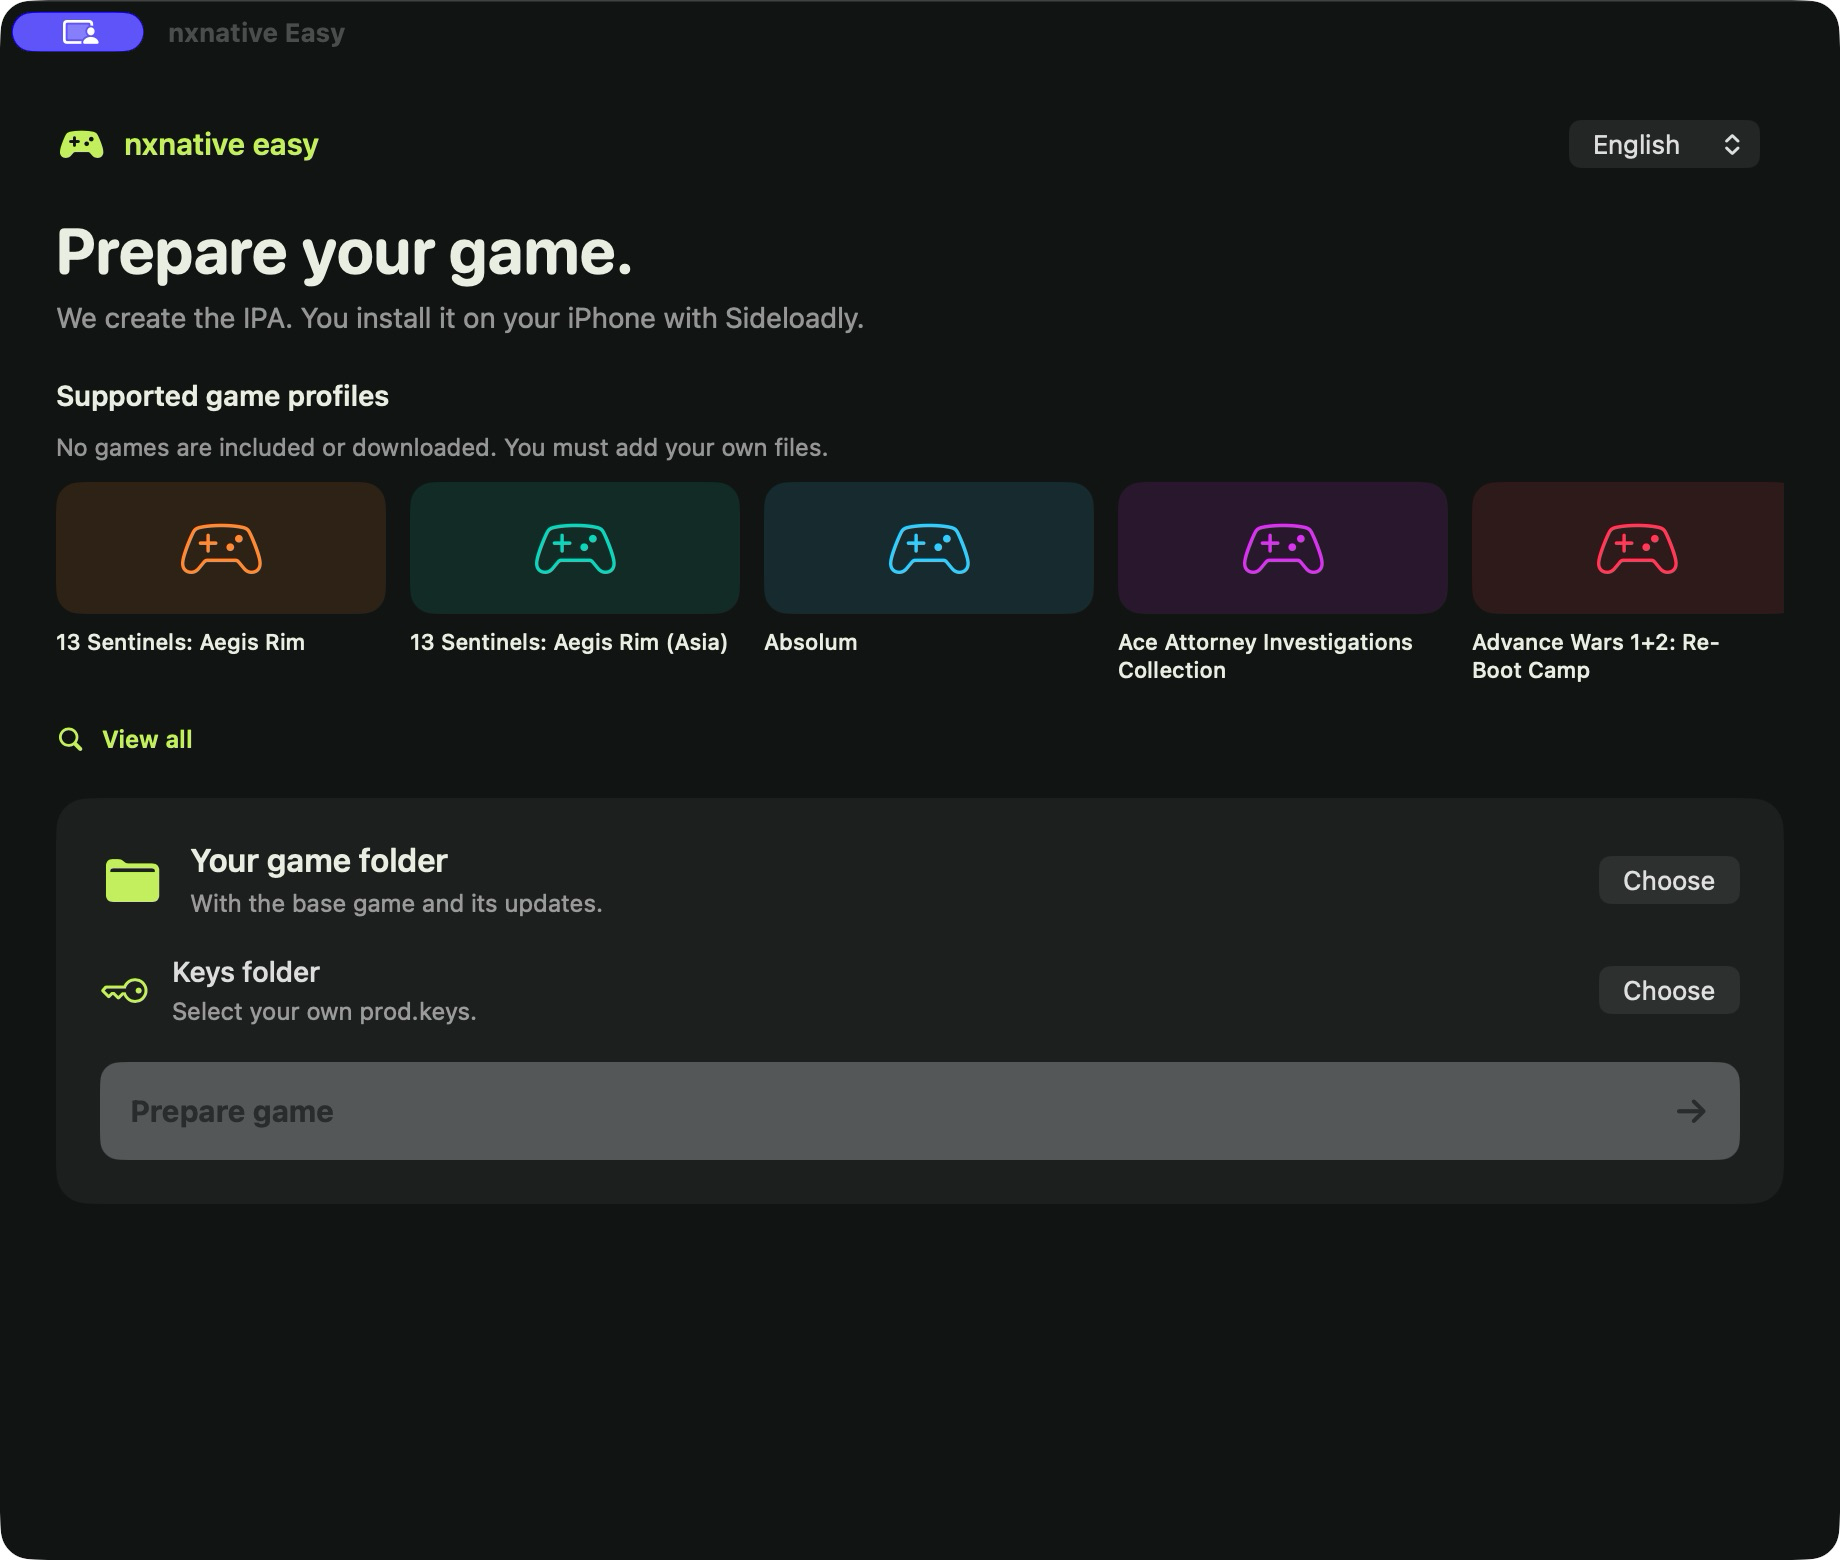
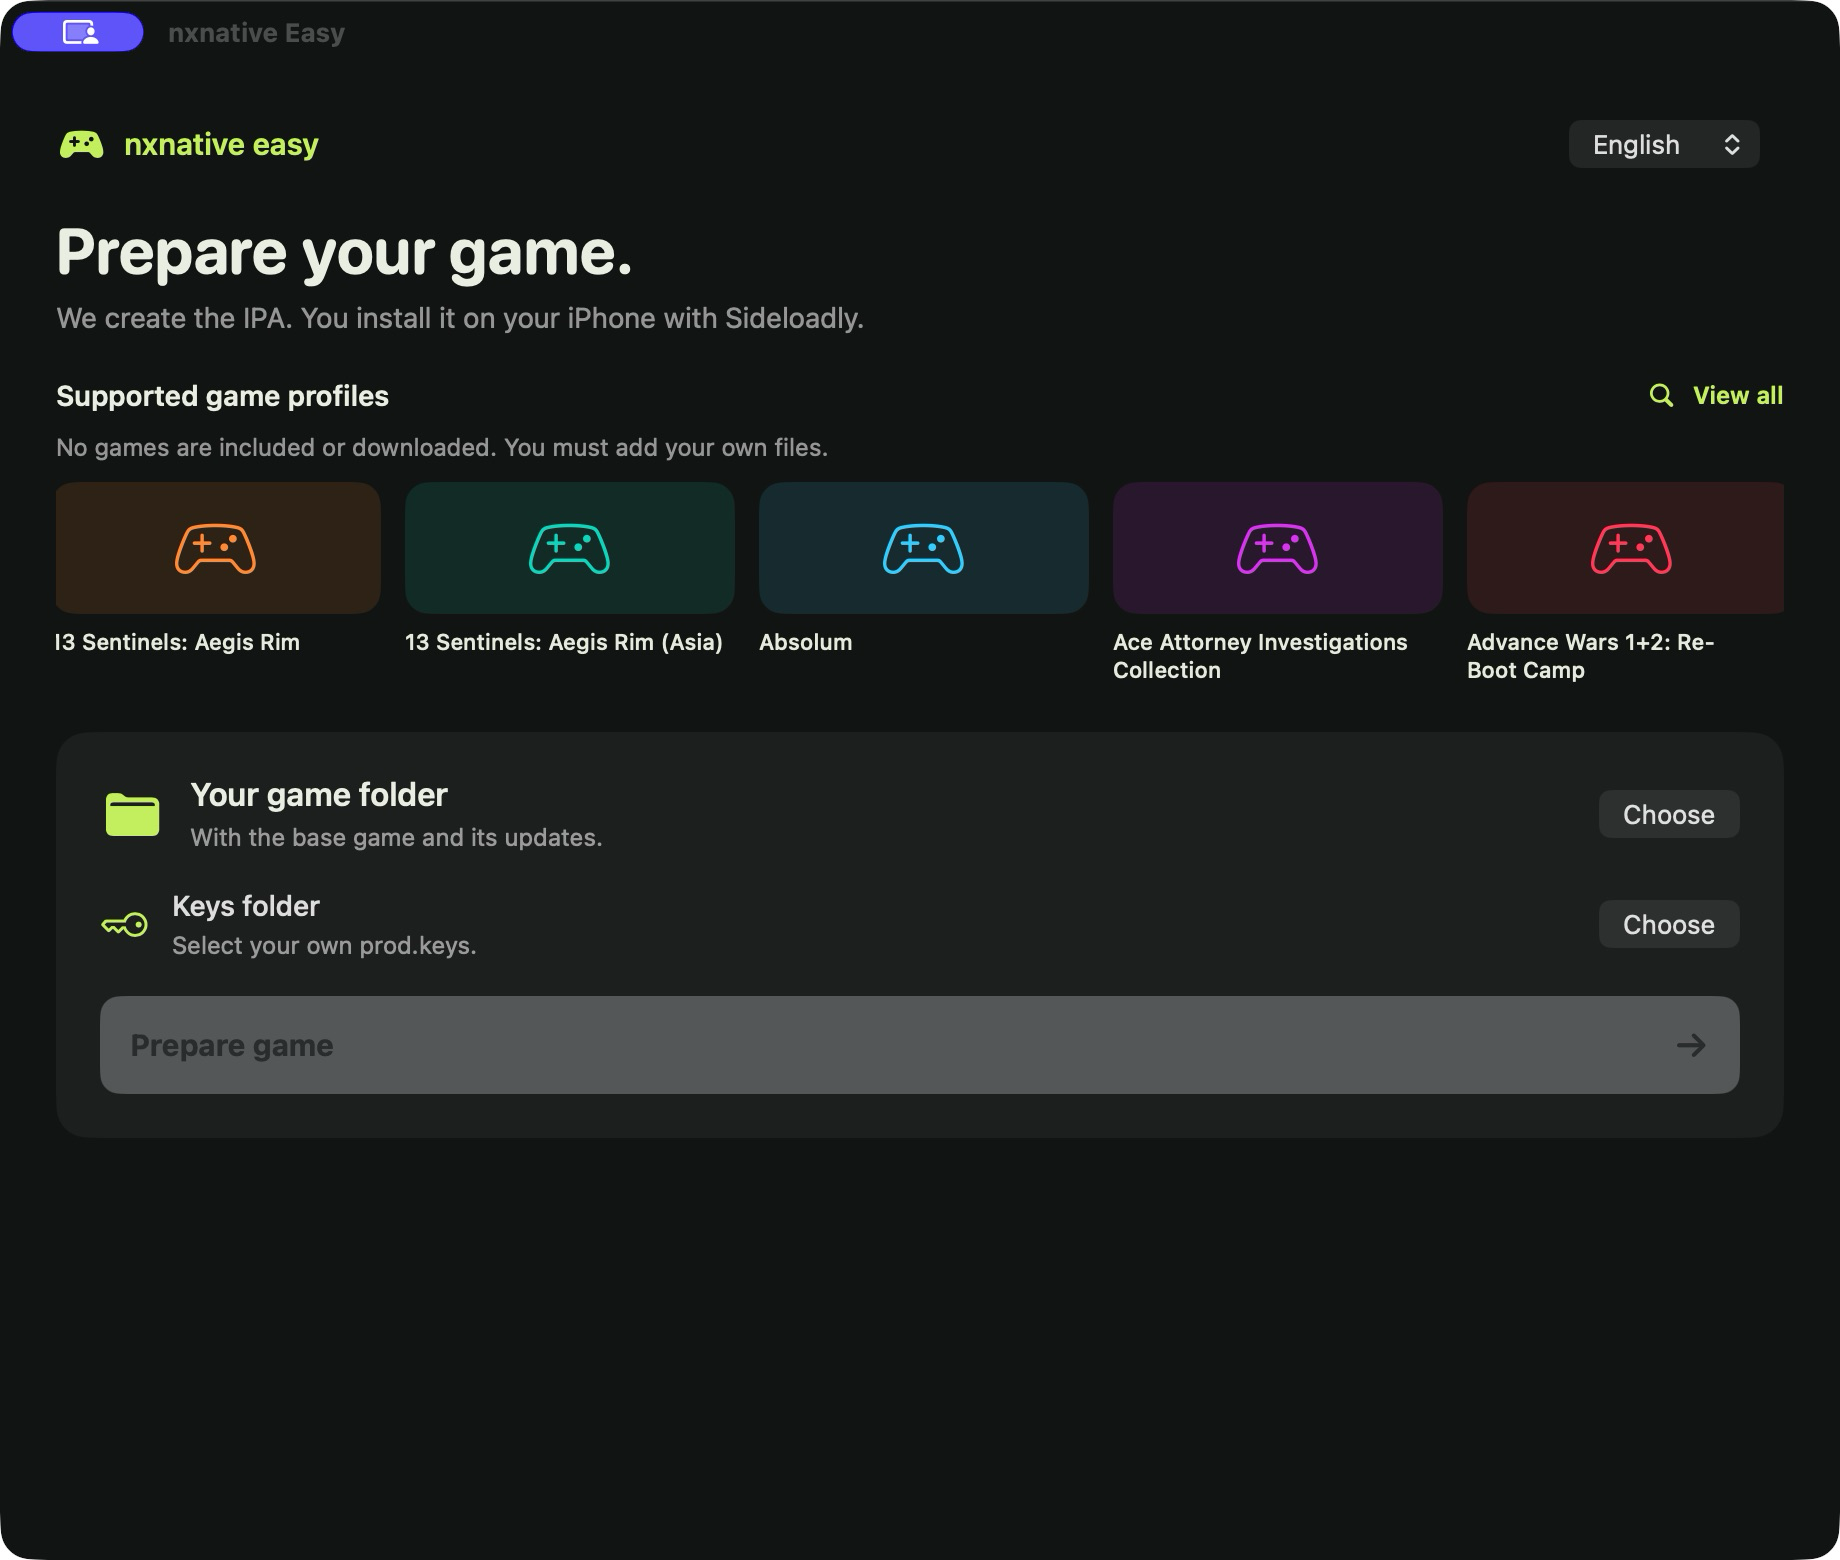
Rotate support carousel continuously and move View all to its header

diff --git a/desktop/NxNativeEasy/main.swift b/desktop/NxNativeEasy/main.swift
@@ -170,6 +170,46 @@ import Darwin
     }
 }
 
+struct SupportCarousel: View {
+    let games: [CatalogGame]
+    @Environment(\.accessibilityReduceMotion) private var reduceMotion
+    @State private var started = Date()
+    @State private var pausedAt: Date?
+
+    var body: some View {
+        GeometryReader { geometry in
+            TimelineView(.animation(minimumInterval:1.0 / 30.0,paused:pausedAt != nil || reduceMotion)) { context in
+                let width = CGFloat(games.count) * 177
+                let elapsed = max(0,(pausedAt ?? context.date).timeIntervalSince(started))
+                let offset = width > 0 && !reduceMotion ? CGFloat(elapsed * 22).truncatingRemainder(dividingBy:width) : 0
+                HStack(spacing:12) {
+                    ForEach(0..<2,id:\.self) { copy in
+                        ForEach(Array(games.enumerated()),id:\.element.id) { index, game in
+                            let tint: Color = [.orange,.mint,.cyan,.purple,.pink][index % 5]
+                            VStack(alignment:.leading,spacing:7) {
+                                ZStack {
+                                    RoundedRectangle(cornerRadius:12).fill(tint.opacity(0.12))
+                                    Image(systemName:"gamecontroller").font(.system(size:29,weight:.light)).foregroundStyle(tint)
+                                }.frame(height:66)
+                                Text(game.name).font(.system(size:11,weight:.medium))
+                                    .foregroundStyle(Color(red:0.91,green:0.93,blue:0.88))
+                                    .lineLimit(2).frame(height:30,alignment:.topLeading)
+                            }.frame(width:165).accessibilityHidden(copy == 1)
+                        }
+                    }
+                }.offset(x:-offset).frame(width:geometry.size.width,alignment:.leading)
+            }
+        }.frame(height:103).clipped()
+        .onHover { hovering in
+            if hovering { pausedAt = Date() }
+            else if let pause = pausedAt {
+                started = started.addingTimeInterval(Date().timeIntervalSince(pause))
+                pausedAt = nil
+            }
+        }
+    }
+}
+
 struct ContentView: View {
     @StateObject private var model=BuildModel()
     private let ink=Color(red:0.93,green:0.94,blue:0.90)
@@ -194,29 +234,18 @@ struct ContentView: View {
                             .font(.system(size:14)).foregroundStyle(.secondary)
                     }
                     VStack(alignment:.leading,spacing:10) {
-                        Text(model.text("Juegos con soporte en la herramienta"))
-                            .font(.system(size:14,weight:.semibold)).foregroundStyle(ink)
+                        HStack {
+                            Text(model.text("Juegos con soporte en la herramienta"))
+                                .font(.system(size:14,weight:.semibold)).foregroundStyle(ink)
+                            Spacer()
+                            Button {model.openCatalog()} label: {
+                                Label(model.text("Ver todos"),systemImage:"magnifyingglass")
+                                    .font(.system(size:12,weight:.semibold))
+                            }.buttonStyle(.plain).foregroundStyle(lime).accessibilityIdentifier("view-all-games")
+                        }
                         Text(model.text("No incluye ni descarga juegos. Debes añadir tus propios archivos."))
                             .font(.system(size:12)).foregroundStyle(.secondary)
-                        ScrollView(.horizontal,showsIndicators:true) {
-                            LazyHStack(spacing:12) {
-                                ForEach(Array(model.catalog.enumerated()),id:\.element.id) { index, game in
-                                    let tint: Color = [.orange,.mint,.cyan,.purple,.pink][index % 5]
-                                    VStack(alignment:.leading,spacing:7) {
-                                        ZStack {
-                                            RoundedRectangle(cornerRadius:12).fill(tint.opacity(0.12))
-                                            Image(systemName:"gamecontroller").font(.system(size:29,weight:.light)).foregroundStyle(tint)
-                                        }.frame(height:66)
-                                        Text(game.name).font(.system(size:11,weight:.medium))
-                                            .foregroundStyle(ink).lineLimit(2).frame(height:30,alignment:.topLeading)
-                                    }.frame(width:165)
-                                }
-                            }.padding(.bottom,8)
-                        }
-                        Button {model.openCatalog()} label: {
-                            Label(model.text("Ver todos"),systemImage:"magnifyingglass")
-                                .font(.system(size:12,weight:.semibold))
-                        }.buttonStyle(.plain).foregroundStyle(lime).accessibilityIdentifier("view-all-games")
+                        SupportCarousel(games:model.catalog)
                     }
                     VStack(alignment:.leading,spacing:18) {
                         HStack(spacing:12) {

diff --git a/README-es.md b/README-es.md
@@ -49,7 +49,7 @@ Para actualizar, usa la misma cuenta y el mismo bundle ID efectivo de Sideloadly
 
 ## Juegos incluidos
 
-El carrusel muestra los perfiles de esta copia; no proporciona ni descarga juegos. Debes añadir tus propios archivos del juego. Pulsa **Ver todos** debajo para consultar la lista completa de soporte. Busca por nombre, versión o Title ID; cada resultado enlaza a su ficha. El catálogo vuelve a leer los perfiles locales cada vez que lo abres.
+El carrusel muestra los perfiles de esta copia; no proporciona ni descarga juegos. Debes añadir tus propios archivos del juego. Pulsa **Ver todos** arriba a la derecha para consultar la lista completa de soporte. Busca por nombre, versión o Title ID; cada resultado enlaza a su ficha. El catálogo vuelve a leer los perfiles locales cada vez que lo abres.
 
 **Las pruebas propias cubren compilación y empaquetado en Mac, no una verificación automática de juego en iPhone.** Los perfiles y reportes de juego proceden de upstream; revisa [la ficha de tu juego](dm/games/README.md#games) antes de prepararlo. Un perfil no garantiza que cualquier versión funcione en cualquier iPhone.
 

diff --git a/README.md b/README.md
@@ -49,7 +49,7 @@ For updates, keep the same Apple account and effective bundle ID used in Sideloa
 
 ## Included game profiles
 
-The home carousel shows the game profiles in your checkout; it does not provide or download games. You must add your own game files. Click **View all** below it to browse the complete support list. Search by name, version or Title ID; each result links to its game notes. The catalog reads the local profiles each time you open it.
+The home carousel shows the game profiles in your checkout; it does not provide or download games. You must add your own game files. Click **View all** at the top right to browse the complete support list. Search by name, version or Title ID; each result links to its game notes. The catalog reads the local profiles each time you open it.
 
 **Our own checks cover macOS compilation and packaging, not automatic iPhone gameplay verification.** Profiles and gameplay reports come from upstream and may concern Mac or iPhone; read [your game's notes](dm/games/README.md#games). A profile does not guarantee that every game version works on every device.
 

diff --git a/docs/personal-ios.md b/docs/personal-ios.md
@@ -153,7 +153,7 @@ bytes, not Nintendo key material.
 
 ## Game catalog
 
-The home carousel lists all local game profiles as a support reference, with an explicit reminder that users must supply their own game files. **View all / Ver todos** below the carousel opens the searchable catalog. The native catalog reads every
+The home carousel lists all local game profiles as a support reference, with an explicit reminder that users must supply their own game files. **View all / Ver todos** at the top right of the carousel opens the searchable catalog. The native catalog reads every
 16-digit title directory containing `dm/games/<id>/game.tsv` from the current checkout
 when opened. It shows the profile name, registered build display versions and title ID,
 with a link to the corresponding repository game note. Search ignores case and accents
